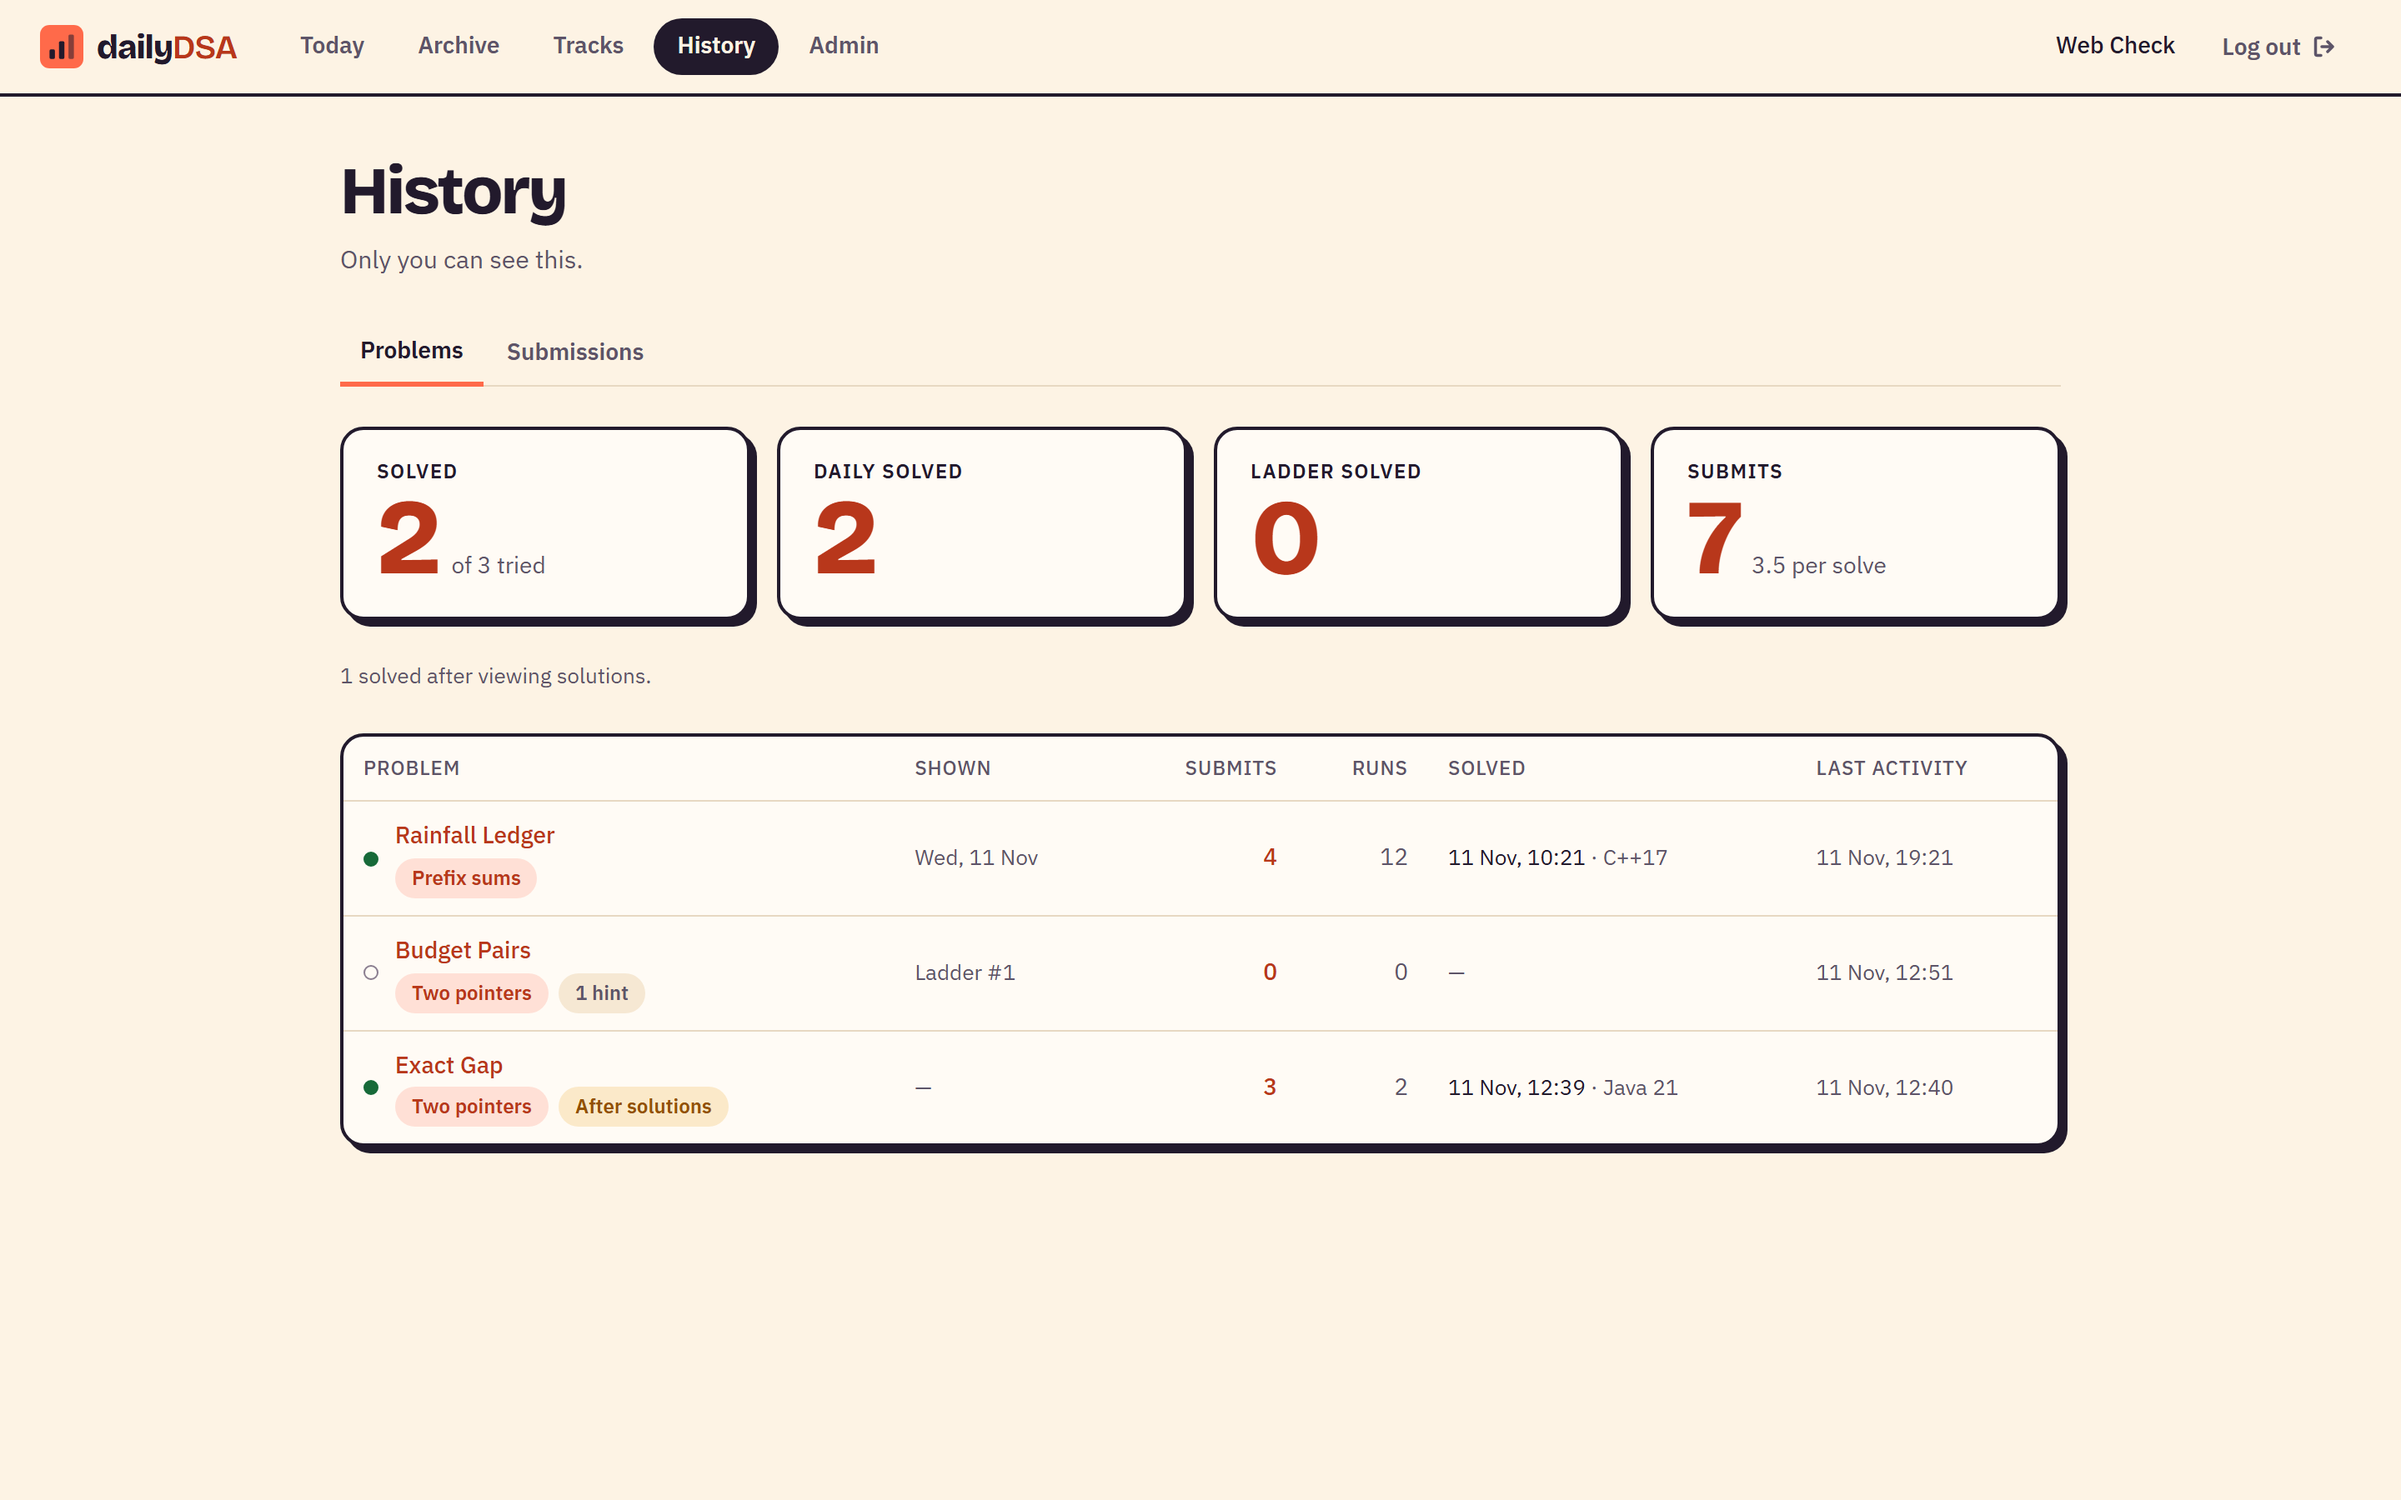
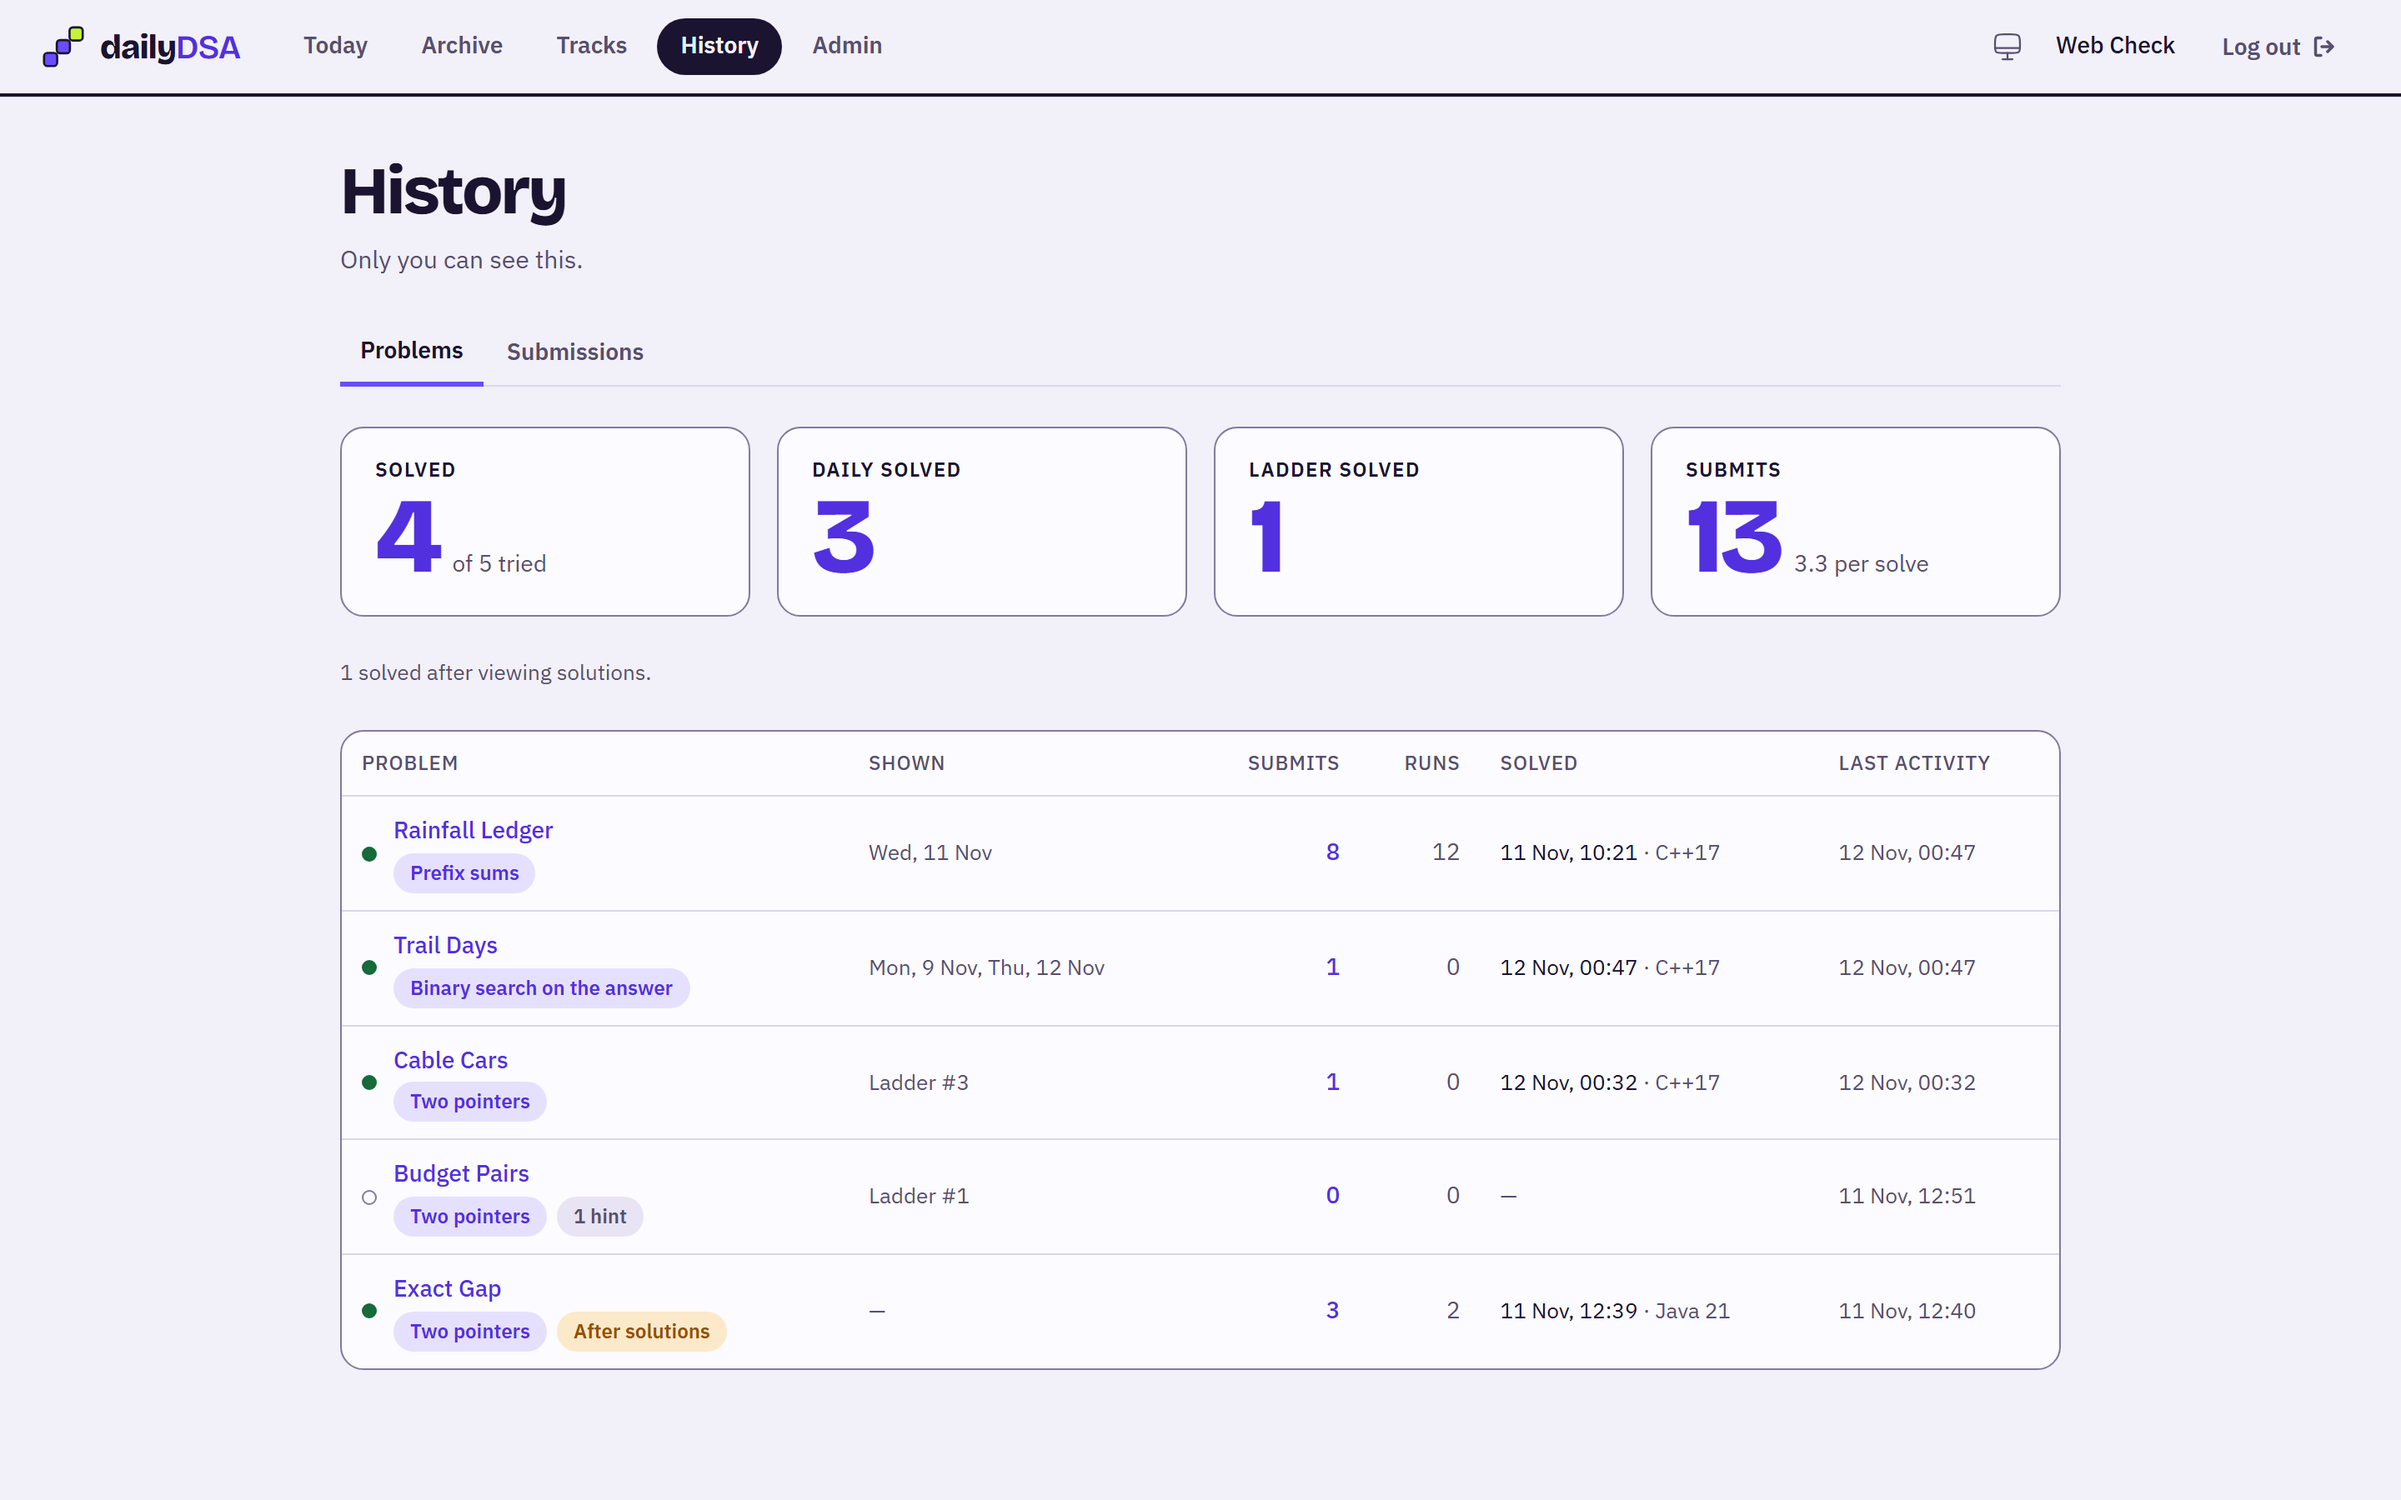
README: new screenshots and the new features
Retake all screenshots in the Ultraviolet + Lime look with the new mark,
diagrams and tracks timeline; add the solve reveal and Today on a phone.

diff --git a/PROGRESS.md b/PROGRESS.md
@@ -192,7 +192,6 @@ The first milestone (platform + a handful of problems + one track) is reached. C
 - **More content** (PLAN §10/§12): grow the weekday bank towards ~24, and the next launch tracks (lesson + 5-problem ladder + 2 weekend problems each). Done so far: two pointers, sliding window, prefix sums, binary search on the answer. Left from `STARTING_PATTERNS`: monotonic stack, BFS / DFS, simple 1D DP, heaps / top-k (the binary-search lesson already points to heaps for small k).
 - **Step 7, go live:** buy the server, setup script + guide, re-run `pnpm dsa validate --all` there, backups.
 - Smaller polish from the open questions below (CSP header).
-- Re-take the README screenshots (`docs/screenshots/`): they still show the coral look, the old logo, the card-grid Tracks page and no diagrams.
 - Diagrams for the next patterns as their tracks get written (monotonic stack, BFS / DFS, 1D DP, heaps): one entry each in `DIAGRAMS` in `components/PatternDiagram.tsx`.
 
 ## Open questions / for later
@@ -206,6 +205,7 @@ The first milestone (platform + a handful of problems + one track) is reached. C
 
 ## Session log
 
+- **2026-11-12 (29)** — **README screenshots retaken** (Ultraviolet + Lime, new mark, diagrams, timeline), 1440×900 at 2×, reduced motion, signed in as `webcheck`; two new ones: `reveal.png` (Trail Days' first Accepted: its `webcheck` solve row was deleted and the reference resubmitted to show the daily reveal) and `today-phone.png` (390 px). README text covers the countdown, group pulse, reveal, diagrams, timeline, reminder email, themes and phones. Today no longer crashes against an older server that sends no `pulse`. Pushed to GitHub.
 - **2026-11-12 (28)** — **UI/UX pass** (tastemaker audit + the awwwards skill as a lens; the user said "do all of them"). **Solve reveal:** the first Accepted shows a card that flips from "Pattern hidden" to the pattern name and its diagram, pops "Today's square is filled" for today's daily, and offers "Practise <pattern>" (or "Back to the ladder" on a ladder problem, which shows its rung); replaces the green notice. **Pattern diagrams:** `components/PatternDiagram.tsx`, data-drawn SVG per pattern (two pointers, sliding window, prefix sums, binary search on the answer), looping only on screen / visible tab / without reduced motion, or as a step-through ("See it work" at the top of each lesson). Also on the landing's track cards and in the reveal. **Tracks library** is a timeline now: this week's track as the one feature card, then Open / Coming up / Not scheduled (staff) rows with the diagram, first spot-it lead and the mini ladder. **Elevation rule:** only `.card-hero` (today's problem, this week's track) keeps the ink border + hard shadow; other cards are flat 1.5px line-strong. **New mark:** three day squares stepping up, top one lime (favicon too). **Today:** big hh:mm:ss countdown ("Left to solve it" turns amber in the last 3 h, "Next problem in" once solved), **group pulse** (one square per active member, lime = solved today's problem; `DailyToday.pulse` from `dailyPulse()`), clock/lock icons instead of repeated "Opens at midnight"/"Locked". **Streak-saver email:** migration 005 (`users.remind_streak` default on, `streak_reminders` claim table), `apps/server/src/reminders.ts` runs at 21:00 IST (and on boot if started after 21:00): members with a streak up to yesterday, today's daily unsolved, reminders on, not yet reminded today. `GET/PUT /api/me/settings`, toggle on the Account page. **Phones:** Today, the statement (editor hidden, "solve it on a laptop" note) and the tracks pages work at 390px; top bar wraps with a scrolling nav. **Theme toggle** (system → light → dark) in the top bar (`src/theme.ts`, `dsa.theme`). **Page crossfade** (View Transitions, 160 ms, not under reduced motion). **Smaller:** ladder sidebar meta on its own line with a "Staff preview" badge (no more "locked for / solvers" wrap); "Hover a square…" sentence removed; landing numbered eyebrows gone (only "The judge" keeps one); the hero's "pattern hidden" chip flips to "sliding window" on Accepted. **Bug found:** KaTeX CSS came from katex 0.19.1 (`.katex-base`) while rehype-katex renders with 0.16.47 (`.base`), so maths had no KaTeX layout rules and `a_i` split across lines on phones; `apps/web` now pins katex 0.16.47 (one version in the lockfile). Solar icons added: lock, clock, sun, moon, auto, laptop. Tests: +5 (pulse, reminders x3, settings), 126 pass; typecheck + build pass; tastemaker scans in the judge container (the flagged box-shadow lift transitions and >300 ms reveal are deliberate; width transitions in the diagrams removed). Checked in headless Chromium: Today/Tracks/lesson/problem/account light, dark, 390px phone, the landing, and both reveals for real (the `webcheck` account Submitted the references for **trail-days** and **cable-cars**, so both are now solved for it; its password was reset again).
 - **2026-11-12 (27)** — **New palette: Ultraviolet + Lime.** The cream paper + coral read as Claude's own colours at first glance. Palette only (outlines, shadows, type and layout unchanged). Three palettes were previewed with a temporary picker (A · Cobalt + Signal Yellow, B · Ultraviolet + Lime, C · Ink + Highlighter); the user picked **B**, and the picker (`look.tsx`, `looks.css`, `look.css`) is gone. The ~34 hard-coded colours in `landing.css`, `auth-aside.css` and the dialog backdrop are now tokens: `--pn-*` (always-dark panels), `--accent`/`--accent-soft`/`--on-accent` (streak: Today's streak card, 30-day squares, the landing's week strip and month, the login panel's month), `--mark`/`--mark-text` (hero accent line; `--mark` is transparent in B), `--c-ink`/`--c-paper` (theme-independent ink and paper). Favicon and the `<noscript>` page recoloured; Monaco's theme also rebuilds when `html[data-theme]` changes. Contrast: every text pair in light + dark >= 4.5:1 (lowest: warn on primary-soft, light, 4.86); recorded in the style lock. Typecheck + build pass, dev server serves the changed modules; **not** re-checked in a headless browser, and the README screenshots still show the coral look.
 - **2026-11-11 (26)** — **README + public GitHub repo.** Root `README.md` (pitch, "live site: coming soon", features, stack, layout, local run, writing problems) with 10 screenshots in `docs/screenshots/` (2x, 1440×900, reduced motion; signed in as `webcheck@example.test`, whose password was reset again for it). Repo is public at https://github.com/realksm/dailyDSA (`origin`, `main` tracks `origin/main`). No `gh` CLI on this machine; the user created the repo on the website and `git push` worked with the saved Git credential. No LICENSE yet. When the site goes live, swap "coming soon" in the README for the URL.

diff --git a/README.md b/README.md
@@ -27,15 +27,28 @@ All problems are original, and none are copied from other platforms. Solutions a
 
 ### Today
 
-The daily problem, your streak, the last 30 days and the week laid out as Daily and Ladder rows.
+The daily problem with a countdown to midnight IST, how many of the group have solved it today, your streak, the last 30 days and the week laid out as Daily and Ladder rows.
 
 ![Today page](docs/screenshots/today.png)
+
+<details>
+<summary>On a phone</summary>
+
+Today, the problem statements and the tracks work on a phone, for checking your streak or reading the problem on the way. The editor stays on the laptop.
+
+<img src="docs/screenshots/today-phone.png" alt="Today page on a phone" width="320">
+
+</details>
 
 ### The problem page
 
 Statement on the left, Monaco editor on the right, results underneath. **Run** checks the samples plus your own input; **Submit** runs every hidden test.
 
 ![Problem page with an accepted submission](docs/screenshots/problem.png)
+
+Solving a daily for the first time reveals its pattern: the hidden card turns over to show the pattern and a small diagram of it, and today's square fills in.
+
+![The pattern revealed after an accepted submission](docs/screenshots/reveal.png)
 
 <details>
 <summary>Dark mode (follows your OS)</summary>
@@ -46,7 +59,7 @@ Statement on the left, Monaco editor on the right, results underneath. **Run** c
 
 ### Tracks and lessons
 
-One pattern a week. Each track has a lesson ("how to spot it", the core idea, worked examples in all three languages, common mistakes) and a five-problem ladder with three hints per problem.
+One pattern a week, laid out as a timeline with this week's track first. Each pattern has a small diagram of it at work, and each track has a lesson (a step-through of that diagram, "how to spot it", the core idea, worked examples in all three languages, common mistakes) and a five-problem ladder with three hints per problem.
 
 ![Tracks library](docs/screenshots/tracks.png)
 
@@ -83,10 +96,11 @@ Pin a problem to a future day, choose which track runs each week, and manage pro
 - New problem at midnight IST, picked from separate **weekday** (easier) and **weekend** (harder, from the week's pattern) pools
 - Pattern tag hidden until you solve the problem or unlock its solutions, then linked to the matching track
 - Every past day stays open in the **archive**; a repeated problem shows as review with your earlier result
-- Streaks count only days solved before midnight IST
+- Streaks count only days solved before midnight IST, with an optional reminder email at 9 pm IST when a streak is about to break
+- The pattern is revealed on your first accepted submission, with a diagram of it
 
 **Tracks**
-- A lesson per pattern with KaTeX maths and code examples in all three languages
+- A lesson per pattern with KaTeX maths, code examples in all three languages and a step-through diagram
 - A five-problem ladder that opens one rung a day (Mon–Fri), with 3 hints per problem
 - Tracks so far: **two pointers, sliding window, prefix sums, binary search on the answer** (20 ladder problems + 8 weekend problems + 3 weekday dailies)
 
@@ -100,6 +114,7 @@ Pin a problem to a future day, choose which track runs each week, and manage pro
 - Invite-only signup, password reset by email, rate-limited logins
 - Roles: solver, setter, admin
 - Admin pages for the schedule, problems, track lessons, users and invite codes
+- Light and dark themes (system by default, switchable in the top bar); Today, statements and tracks work on phones
 
 ## Tech stack
 
